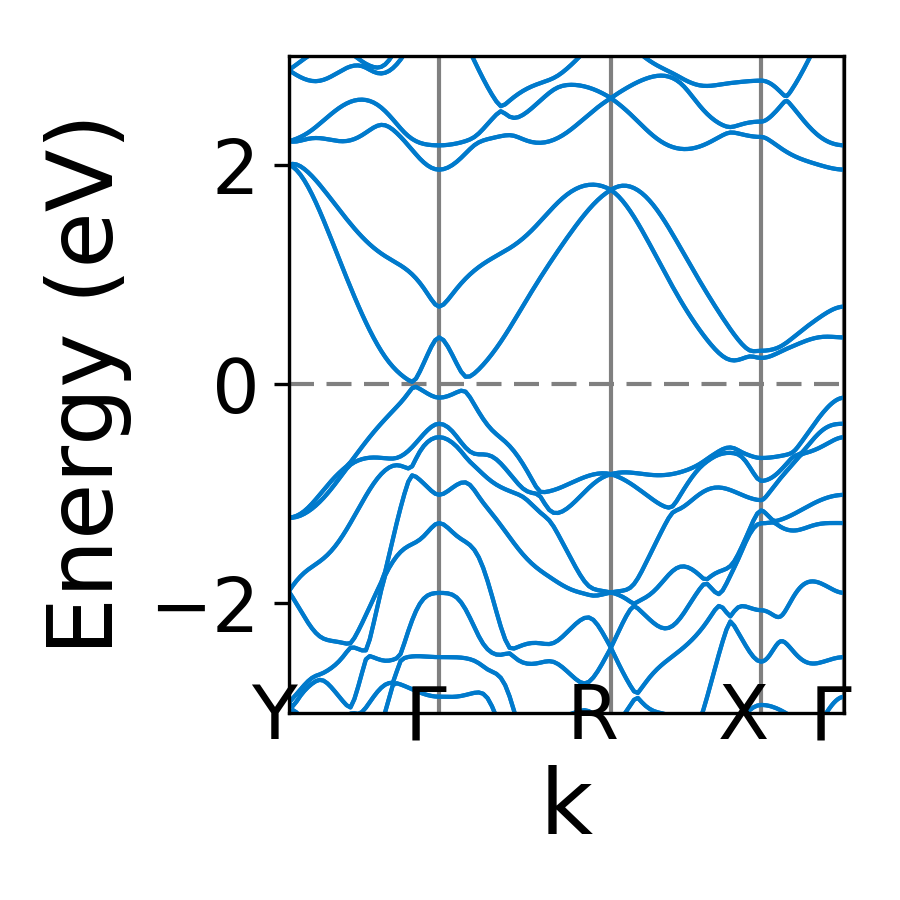
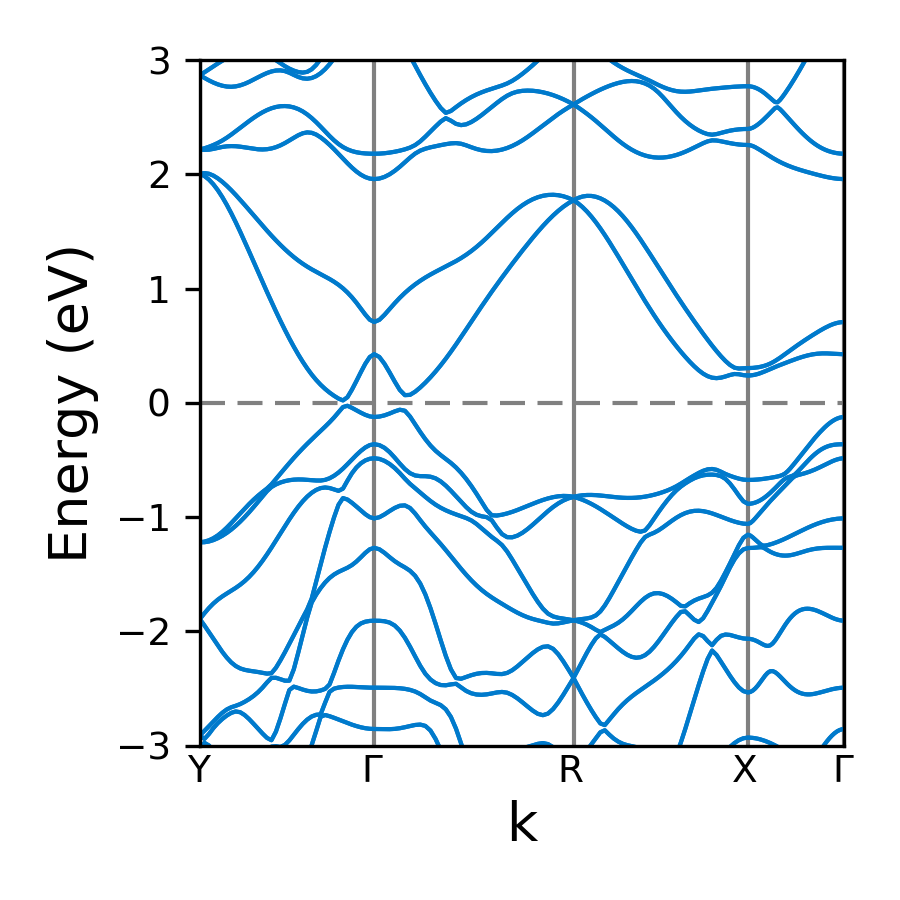
Adding example for plot_band

diff --git a/docs/build/html/plotting.html b/docs/build/html/plotting.html
@@ -189,14 +189,15 @@
 </pre></div>
 </td></tr></table></div>
 <p>To customize the band, one can modify some of these attributes. For mcu/exampple/MoS2, you can run:</p>
-<div class="highlight-python notranslate"><table class="highlighttable"><tr><td class="linenos"><div class="linenodiv"><pre>1</pre></div></td><td class="code"><div class="highlight"><pre><span></span>
+<div class="highlight-python notranslate"><table class="highlighttable"><tr><td class="linenos"><div class="linenodiv"><pre>1
+2
+3</pre></div></td><td class="code"><div class="highlight"><pre><span></span><span class="kn">import</span> <span class="nn">mcu</span>
+<span class="n">mymcu</span> <span class="o">=</span> <span class="n">mcu</span><span class="o">.</span><span class="n">VASP</span><span class="p">()</span>
+<span class="n">mymcu</span><span class="o">.</span><span class="n">plot_band</span><span class="p">(</span><span class="n">spin</span><span class="o">=</span><span class="mi">0</span><span class="p">,</span> <span class="n">save</span><span class="o">=</span><span class="bp">True</span><span class="p">,</span> <span class="n">label</span><span class="o">=</span><span class="s1">&#39;Y-G-R-X-G&#39;</span><span class="p">,</span> <span class="n">fontsize</span><span class="o">=</span> <span class="mi">9</span><span class="p">,</span> <span class="n">ylim</span><span class="o">=</span><span class="p">(</span><span class="o">-</span><span class="mi">3</span><span class="p">,</span><span class="mi">3</span><span class="p">),</span> <span class="n">figsize</span><span class="o">=</span><span class="p">(</span><span class="mi">3</span><span class="p">,</span><span class="mi">3</span><span class="p">),</span> <span class="n">dpi</span><span class="o">=</span><span class="mi">300</span><span class="p">,</span> <span class="n">format</span><span class="o">=</span><span class="s1">&#39;png&#39;</span><span class="p">)</span>
 </pre></div>
 </td></tr></table></div>
-<p>import mcu
-mymcu = mcu.VASP()
-mymcu.plot_band(spin=0, save=True, label=’Y-G-R-X-G’, ylim=(-3,3), figsize=(3,3), dpi=300, format=’png’)</p>
 <p>You should get:</p>
-<a class="reference internal image-reference" href="_images/plot_band_MoS2_a.png"><img alt="_images/plot_band_MoS2_a.png" class="align-center" src="_images/plot_band_MoS2_a.png" style="width: 720.0px; height: 720.0px;" /></a>
+<a class="reference internal image-reference" href="_images/plot_band_MoS2_a.png"><img alt="_images/plot_band_MoS2_a.png" class="align-center" src="_images/plot_band_MoS2_a.png" style="width: 450.0px; height: 450.0px;" /></a>
 <p>All parameters and their defaults of <strong>plot_band</strong> function are given below. Most of the parameters are passed to matplotlib functions.
 So more information can be found in matplotlib docs.</p>
 <div class="section" id="parameters">

diff --git a/docs/source/plotting.rst b/docs/source/plotting.rst
@@ -16,14 +16,14 @@ To customize the band, one can modify some of these attributes. For mcu/exampple
 .. code-block:: python
     :linenos:
    
-import mcu           
-mymcu = mcu.VASP()   
-mymcu.plot_band(spin=0, save=True, label='Y-G-R-X-G', ylim=(-3,3), figsize=(3,3), dpi=300, format='png')
+    import mcu           
+    mymcu = mcu.VASP()   
+    mymcu.plot_band(spin=0, save=True, label='Y-G-R-X-G', fontsize= 9, ylim=(-3,3), figsize=(3,3), dpi=300, format='png')
     
 You should get:
 
 .. image:: ../image/plot_band_MoS2_a.png
-    :scale: 80 %
+    :scale: 50 %
     :align: center
     
 All parameters and their defaults of **plot_band** function are given below. Most of the parameters are passed to matplotlib functions.
